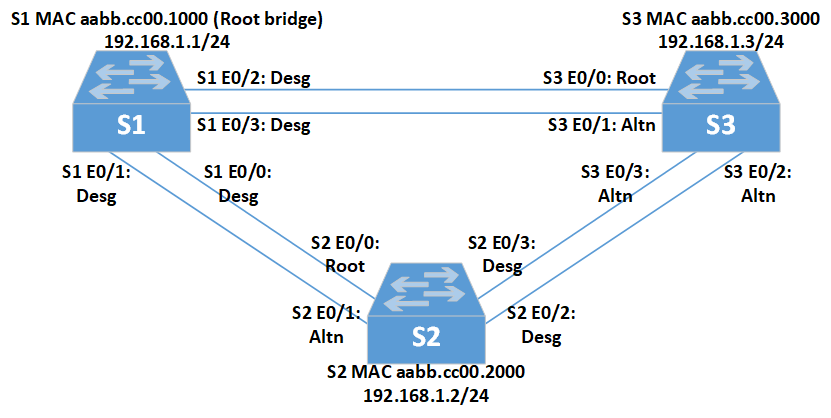
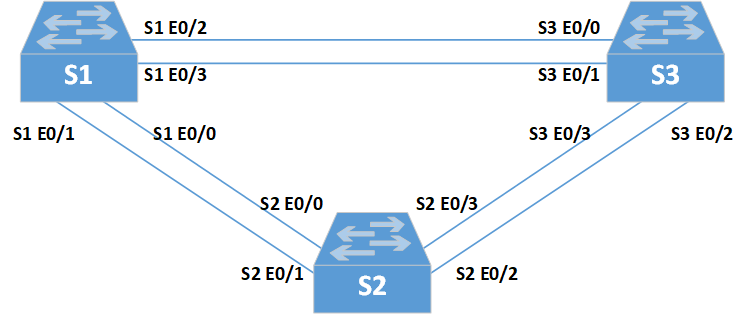
Commit 6

Changed region(s): [[0.0, 0.0, 0.9866, 0.9875], [0.3083, 0.6771, 0.3391, 0.7335], [0.2466, 0.5925, 0.2775, 0.6207]]

diff --git a/Labs/Hw02/README.md b/Labs/Hw02/README.md
@@ -304,3 +304,20 @@ Et0/1               Altn BLK 100       128.2    Shr
 Et0/2               Altn BLK 100       128.3    Shr
 Et0/3               Altn BLK 100       128.4    Shr
 ```
+
+### С учетом выходных данных, поступающих с коммутаторов, ответьте на следующие вопросы:
+
+![](https://github.com/sergl352130/OTUS_NE_Homeworks/blob/main/Labs/Hw02/STP_topology_1.png?raw=true)
+
+  1. #### Какой коммутатор является корневым мостом?
+     + В данной конфигурации корневым является коммутатор S1
+  2. #### Почему этот коммутатор был выбран протоколом spanning-tree в качестве корневого моста?
+     + Потому что данный коммутатор обладает наименьшим МАС-адресом
+  3. #### Какие порты на коммутаторе являются корневыми портами?
+     + Корневыми (root) являются порты, которыми коммутатор подключен к корневому мосту
+  4. #### Какие порты на коммутаторе являются назначенными портами?
+     + Назначенными (designated) являются порты, которые имеют наилучший путь для приема трафика, ведущего к корневому мосту
+  5. #### Какой порт отображается в качестве альтернативного и в настоящее время заблокирован?
+     + Альтернативными (alternate) становятся порты, которые не являются корневыми или назначенными
+  6. #### Почему протокол spanning-tree выбрал этот порт в качестве невыделенного (заблокированного) порта?
+     + Альтернативные порты блокируются протоколом spanning-tree для предотвращения петель
